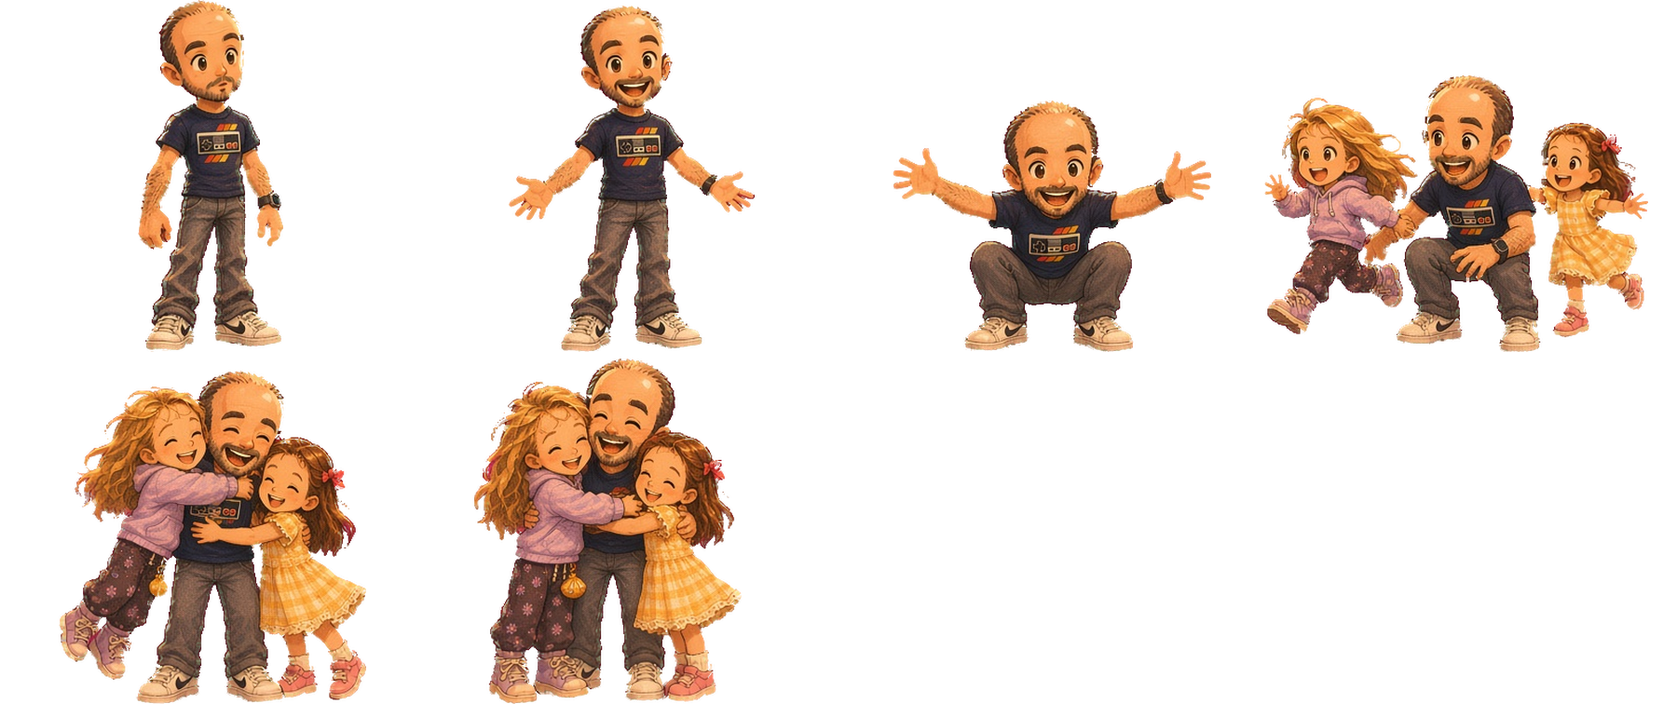
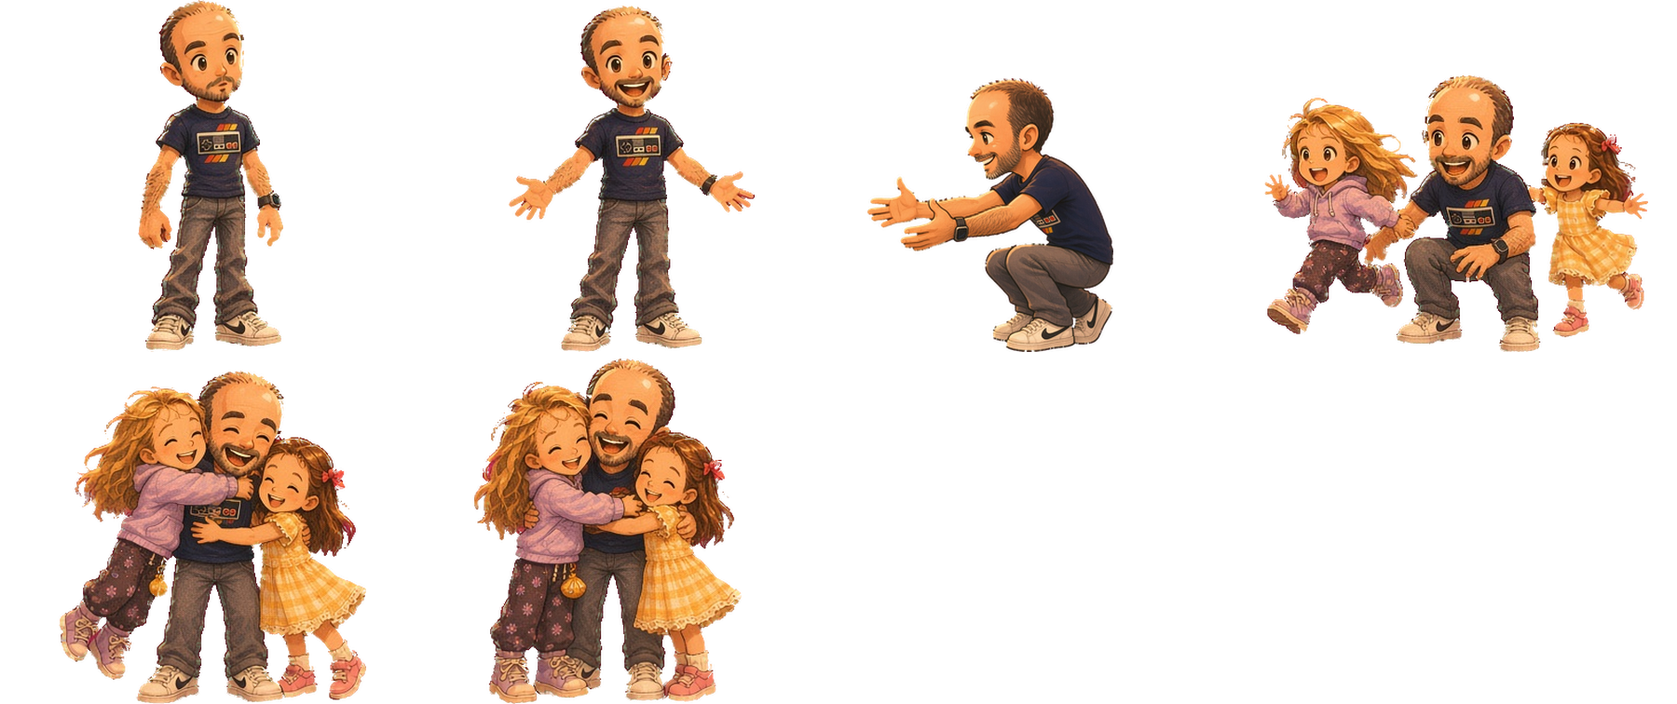
Tom's side crouch before the greeting hug (tomcrouch1)
Claude-Session: https://claude.ai/code/session_01RXeukCqWwVhZYPyHbC2NpQ

Changed region(s): [[0.4978, 0.0913, 0.7467, 0.5172]]

diff --git a/data/story-poses.js b/data/story-poses.js
@@ -30,13 +30,13 @@ const STORY_POSES_SRC={
     tr_hopoff:['..............................','..................u...........','................sDppyp........','...............psyHzphs.......','...........uz.hsKKHDpec.KHp...','...........zM..mKKAJsejpKL....','............HLwhuKrGyjhwKp....','.............FMjuIAKFmgLy.....','..............DDDrsKjuKBhj....','...............pCwsmpKyjce....','...............azyhsBDplc.....','.................szLIwpe......','...................FFFz.......','..................JszzDFL.....','................uzJKDFKKLz....','................DKwHFKxxKIL...','..........ppp..hwKmtMtmprKNJ..','.........HKMLzg.mMEhmeKKhvv...','........DIzCIIr..CJmjmzKuhh...','.......hyHwpDzjc.vysjmjIK.....','........uImAImca.GyA...wNN....','........yIrCFjg.CMC.....JM....','.......zBDBIzpy.........uAu...','.......hmAuyuww....Hy...xEy...','...w....uHzjpj..G.CBy...AHG...','..zw....gmgjDzfkC.HDz...vEJ...','..zDHzH...ewIAiixLDKy.........','..CKFK...bcBDiifrKHz..........','...IKD..ffbliildbwIg..........','...wIs.ifffbittdbehc..........','...mFHkkdbrtAngiaggwK.........','...sDFzrbaekujjlaeBIIu........','...pBIzwc..errmfbasBD.........','....wBwj....jhdbbacms.........','.....p.......bbddbaeg.........','.............bbddcbdf.........','............gdabbbdktl........','..........xxxnfdbitAxn........','.........GJAxokkioEEvo........','.......xJGxtqkfbiAGEvk........','......EMAvqnlfb.qJGAtd........','......AGvnidb...AJJvi.........','......ltolf.....xCEqi.........','.......kolf.....kqonk.........','.......kkqtk.....klltt........','.......nqloo.....ikklq........','.......fqqok......illl........','........itoif.....doqng.......','........kkknoi....nlintk......','........gqnii.....innokf......','........tEEqka.....lxExg......','.......tEJtxn......vJEE.......','......NNJNkoEt.....ENNMx......','.....xNNNMEEEo....xNNNNE......','......gEEx.........qqxJq......'],
     tr_sit:['..............................','.................s............','...............wHpjzy.........','.............spswzypm.........','.............hwKKHyhhp........','..............zKHzDhec........','..............mKytIhhh........','.............mjIDCIyjjz.......','............BhuKKKzjaesw......','............pheyCzegnhs.......','............erFjcspMKuhh......','............uAzpzFzypAc.......','...........JuzJHFzzIpy........','...........upyupFKKum.........','..........DIKIDjeuss..........','.........CKFKKIpccsK..........','.........DIDzzBgcpFFI.........','.........jBwhuDgeuIFLL........','..........mIjAFmsAJMFFw.......','..........zFDIDysypvJIF.......','.........AywyywhyLIhnIM.......','.........mhvHmjjCKwhjGAx......','.........BsjrgssDLphjj........','.........IycasFpJNrc..........','........JLmacwrkNNqfi.........','........MNkadbdrzCifi.........','.......CyxdkonrzHKybfd........','......HKDwekuwgzKKDgiu........','......HHypecjvhuyBIrjLC.......','......pxuwgguurGymwegHz.......','......uJHCicshtNJAacyII.......','......xEEv.bfdbcfda.wBB.......','.......h...ddfdaaac..mm.......','...........dddbbdgf...........','...........dffddfdda..........','..........qvqqqootti..........','..........AEoikntxvk..........','.........tGAqfaitxxo..........','.........CGvof.fqxEx..........','........tEAtk...lxCAl.........','........xAvob...fxCAl.........','.......xJxnf.....oEGv.........','.......qAtof.....kxGxi........','.......dookb.....dlooq........','........llnf......ilnvn.......','........qqtk......iootl.......','........vtof.......fottn......','.......iklnb.......bqkkl......','........nlln.......knlql......','.......fvokf........ioxtc.....','.......xJxkf........fxMJk.....','......xJEExf........axEEx.....','.....NNJJftx.........xMJN.....','....ENNNMEEx........kJNNNJ....','....iqEJxk...........xEtqx....']
   }},
-  hug:{member:"tom",atlas:{"src": "art/chars/hug-story.webp", "k": 9, "rects": {"hg_hear": [0, 0, 450, 378], "hg_delight": [450, 0, 450, 378], "hg_crouch": [900, 0, 450, 378], "hg_run": [1350, 0, 450, 378], "hg_crash": [0, 378, 450, 378], "hg_group": [450, 378, 450, 378]}},pal:{"a": "#262125", "b": "#332c32", "c": "#492c22", "d": "#433430", "e": "#583424", "f": "#4d3a32", "g": "#5e3c2f", "h": "#5e4336", "i": "#72402d", "j": "#62493b", "k": "#81472a", "l": "#674e3f", "m": "#71503f", "n": "#994b27", "o": "#795a47", "p": "#8b5e46", "q": "#9f5f3b", "r": "#ae612e", "s": "#ba642d", "t": "#bd6e38", "u": "#a36d54", "v": "#b7764f", "w": "#d4773d", "x": "#bd7d5d", "y": "#d88246", "z": "#c08864", "A": "#e48c45", "B": "#d68b62", "C": "#ee8e4a", "D": "#e99a57", "E": "#f5994d", "F": "#d79a6f", "G": "#f79c57", "H": "#faa25b", "I": "#eea961", "J": "#fda95d", "K": "#fab25f", "L": "#e9b175", "M": "#f6ba6e", "N": "#fac682"},frames:{
-    hg_hear:['.......................yGJ........................','.....................qtDJKM.......................','....................itGJJMNN......................','...................enEHJJJHI......................','...................ctEGDDJyrv.....................','...................cqCqkyJCyD.....................','...................cgwwtyJDoF.....................','....................irCppJGvM.....................','...................tsnEDyGAJK.....................','....................wtwGHwryA.....................','......................iwwyyy......................','.......................iiqq.......................','.......................ksrr.......................','.....................cabgpmd......................','....................gdbbbacmjd....................','....................bbbflotyob....................','...................dbbaloppjlbd...................','...................iibaffloplad...................','...................EEgabhntlftH...................','...................JC.abfimfgwJ...................','..................yE..cbbbbfdAHD..................','.................tyC..dbbdddd.CD..................','.................wAw..dbbbddd.wH..................','.................tA...dddbbdf..ph.................','.................tA...hmoomoo..kp.................','.................yGG..joojfjp..JJ.................','.................EHH..ooocbjp..DHM................','.................GGt.houmcdmu..AGH................','.................wCt.hpuj.dop...E.................','..................w..puoh.fou.....................','....................iopo..gmp.....................','....................fmoh..jlj.....................','....................pphf..dmp.....................','...................mumjh..hju.....................','...................cfpp...hmop....................','...................mohlj..mjff....................','..................elmmfc..fhmp....................','..................copol...fjpuu...................','..................mFFzl...gpuFLL..................','..................LNLzm...zugFLNN.................','..................NNNLz...zxxFLLN.................','..................FLLL............................'],
-    hg_delight:['..................................................','......................rAIKA.......................','.....................nAJKNNI......................','....................iAJKKMMML.....................','...................anEAyJJvqB.....................','...................cqwnrEJCAD.....................','...................ckwywEKyuB.....................','....................ewvfIKvpIs....................','...................wnrGtHCCGGt....................','....................tsEyttqqD.....................','.....................nrqgqktq.....................','......................ektwyv......................','.......................enqr.......................','......................ackrqd......................','.....................bbbabdfff....................','....................ddbdffntmd....................','...................bdbalouuoobd...................','...................kdaajfloimaf...................','..................JJqaafjpuohcyK..................','.................DHH..abinrfb.AJJ.................','................AGHC..abbbbdd..AHH................','............GJ.AHEy...abbbdbd...yApqMH............','.............GHGA.....bbbbddd....eiJHG............','............EHGG......bbbbbbd......HJEyy..........','...........EyCH.......gjljjjo.......Cyy...........','.............CG......floomlmom....................','.....................hmpodcjuo....................','.....................houmcdjup....................','.....................jppj.fmup....................','.....................mpof.foup....................','....................pppm..fmuu....................','....................fjoj..gmlj....................','....................oohf..dhpm....................','...................mpjlj..hlpu....................','...................djpm...fmou....................','...................ojho...hlhh....................','..................gmmfd...fflpm...................','..................fopmf...fjouu...................','..................uzzuf...fmzFL...................','..................LFFo....xufFLNN.................','.................FNNLzz...zzuFLLNL................','.................FLLL.........F...................'],
-    hg_crouch:['..................................................','..................................................','..................................................','..................................................','..................................................','..................................................','..................................................','..................................................','..................................................','..................................................','..................................................','..................................................','........................CMM.......................','......................qyGMMJt.....................','.....................nyHJJKNMq....................','....................etGHJKKKKDi...................','....................eyEJJJJKJJk...................','....................gywqyJJvnAq...................','..........G.........ctsrtGGwyDq.........J.........','........G.H.........gqCqvHJuuDr.........G.G.......','.......EEHHH........skDoqJJquDw........HGGG.......','.......GEGEGH.......srEEEECGHCw........GEEEG......','........GGGCHEGK.....ntwqqqktw......KtiEHHE.......','............yEGHGKkddaerikqkqcdfgDHHEAekE.C.......','.............tAGHJvbdbaewwwycbdbmHGECwk...........','...............wwArbbbbacnkcbbbakAwwt.............','..................caaabaaaabfbaac.................','....................aabfdfnsma....................','.....................afmlppjlb....................','.................upobaddbojiga.puu................','................pppomaafinkdadoopup...............','................moojmjaaccbadlhlopm...............','................hjmmfjfaaaabhffmmmj...............','................fljmjfhdbdcfhflllm................','.................jmjjfffdffhffhjoh................','.................hmmhddfffffddjmog................','.................hfjlh......chhfjj................','.................cmjhf......dfhoh.................','.................uzzuj......couzz.................','................NLLLmu......uhuLLN................','...............FNNLLuF......xuzLNNL...............','................FLLF..........zzFLL...............'],
-    hg_run:['..................................................','..................................................','..................................................','..................................................','..................................................','..................................................','..................................................','..................................................','..................................................','.......................DMDy.......................','.....................qIJHDAtt.....................','.....................FMJJNNyqk....................','........D............KGJJKKJqi....................','.....ttAAAEK........yyHJDDJJqi....................','.....wsnAKKEA.......nrEHrkwGqi....................','....twEEyyAAAw......ytCHCyyCie.....rnnnsr.........','....nEHHCwrAEAw.....rjDJquDCkt.....wCyrnnn........','....ryHGvDrksAA.....JAGJrzJAsw....kHKJGnknn.......','....kpDApDtkswwAA...DysyyyHyA.....kyJBDreee.......','....nCGHDJAsktAAw....kiqgnyic.....qvJpBreke.......','....nGtsCGqkekrsst...krswtkcbf....HEDyGwnink......','..G.nrwwAvuupinrs...fbirtnnbbbfd..rtrCGtnckk......','.CED.uupuzFFuiknnt.gbbaaeibbbbdbvHwwwAnekkek......','..wxFFxuxzFLFvzq..ebaabaaaffabdbpCEArtyKHtkkt.....','..pzFxzFFLzFFLLF..wdaadfhntpaabbb.wEEKKEwEHAEE....','...xupuFzFzpuFFFFyCwc.dfmofhbamtk..AJKKwsw..E.....','......zFFFFu..uuBAwt..ddhoiibaCJJ...GKKEr.........','......xFFFzFu.trtCt....benibaeyHG...AEKEAE........','......pppxxxutwsr..pohbaaaaadvGAA...CAEHEKKKM.....','......emggmopww...pupojfmqvyjlywt..AEAEKKHHKK.....','......immiic.ww...ppomlryGHJtcki...DJKAHKKKKM.....','.....ppmmgfekr....oomfhirtCAifmm...AKMKAEMKM......','.....mmmggffiiuFx.jjlfdjkqqgfopo...ABIMKEKIy......','....imimc.chhgpxp.hlhjfbgg.chlopl..yrsryIDwyFL....','....ppjm...mcgpuu..jlhf.....fjloj....AA....tyB....','...zzzuc.......ux..hjlhg....dhooj....JH.....yD....','.zLFxzu............dhhhf.....hhlo....BL.....yD....','.kuFFz.............upojd.....fjml....yy...........','..ikzz............LFFuop.....jvzz...DBC...........','....k............LNLNuuF......LLL..BHBL...........','.................FLLFzz......FNNNL................','.............................zFLN.................'],
-    hg_crash:['..................................................','..................................................','...........................wA.....................','.........................kqwAHMM..................','...................G....ekwEJJHMy.................','................DCwstwD.etEGJJJNN.................','...............AEAtswywtkwCEHJJJMN................','..............AwwwwHHHEsktynqDJDKK................','..............rrrrAEDJHAitCyAGHrq.................','..............sstsAEJJHtkwCryJAAy.................','.............AtsrkADvHGErwEEEEAttksn..............','...........AywnsrnwCCHDDqkqgqryEikknnn............','............rnrrkswEGwtygctnkiqrrAyrnwr...........','............ttskiuuvByApackystnkCHJGrkie..........','..........CAsrnnxzzLFzxuuupmqncqEHHDyinns.........','..........wsrnnkuuFLLLLLLLFzvwcryHDDAiiks.........','..........rrrnkimxFFFFFFFFFxDCiEEJyyycee..........','...........srnniizzuuzzzzxpgiicytyEHwnkk..........','...........trnnkuFuuuofhhmeedaaiwyCtsnen..........','...........s...uxFFFuoacgpkkfaiesEDrcceks.........','...............FFFzzzoaitygcdcntyDKJkcekkn........','..............zzzzFFFjasGJGDDDGKEwEEseekki........','..............jpzFzzFhagtqpwACEwsswAseeii.........','..............gegoxxobabaaaaac.swwyKwciii.........','.............gmogcgmgaabbbbbaa.wACJKJ.............','.............gjpgfee.cffdddfff.swAEEEMK...........','............kmligce..hmmljhlml.wAEEKKEMN..........','..........tigjimceAE.opohcdlopgwAKKEKKMEMN........','..........ijmuipfewEhppoj.dmppjtwEKKMKEMKKN.......','..........cihhgccc..hppoj.foppmtAAKKEMKKKKD.......','.........xocgecghc..hppoh..lppmwAAJMKMMEKMw.......','........Bxumeccmmc..jpoo...jopmwAAEKKEMIIy........','.......Fxxvu.gcce...lmom...hmomwEEAKMMytB.........','.......zzxuqpupe....lmoj...hlomkIDyyyywC..........','.......zFzupuuu....imomj...hlooe..sw..yJJ.........','........LNxuuvu....mjmmf...hmjmm..wCy..DNN........','........FB.vxzz....gljmh...jhlog...IL...LLB.......','............FNL....uumjf...fhouo..rBL...wwGL......','.............LF...FFFzmg...cpzFF..vwy...xBG.......','.................NLFLluz...umzLLNBBBGB..BDL.......','.................NNNLuz....zuzLNNFBFL..yHL........','.................LLLF........xFLL.................'],
-    hg_group:['..................................................','......................twDMD.......................','.....................qIJHJJAr.....................','....................eBJHJJNNtk....................','.............wHKJE..pGCJJKMMDk....................','............stttwEEkqqqHJyDJGk....................','...........rCsnnrrAttHEGGtkDCi....................','...........wAAwCJEArsryHEHDCqe....................','..........swssAKCHHtrECHyqAHkg....................','..........srrtCAHJJyttsyGCCtns....................','..........ssssCGJJDtrimqkyAkkiknk.................','.........wttnkCytJGHrrrnqtknwtkrss................','........AsrtnnwCCDyDkktyteeAJJDnnki...............','........snsrerrAGwwtacnneanGHHGwiinn..............','........sswniuxxvtwgaaiibanAJHDyiiin..............','........wwskkxxFFumdaaabaeCEJvDyceek..............','.......wtsnkkpuFLLFofffieeAwDCEwnkk...............','.......tnnnnkmzzFFFFLFFuyttywEAwrekn..............','........rnnnknxzzFFFFFFFFGktEErncennn.............','........rnnkksxxpuzFFFzuqrtyAKEwnennk.............','.........rnnnrxzupppputyGGJJwDAAAeek..............','.........snnpxFzFxufaeirwttsrwwttiei..............','............zFFFFFzjaaaaaacwwwEAkei...............','............xzFFFFzlabbbaacwCKKKw.................','............uzFzxxpdffdfffcsCEEEJ.................','...........cghhmomifhhhhllgtAEKKKK................','...........ijmhghenhlhccmmkyHJEEKMK...............','...........ghpocerEtljccmmkwEJMKMJKM..............','...........moiicctAsll..lmqAEHKEKMMKKN............','..........eghigcmcegmh..jmtCEEMMMKEMML............','..........igppcdlcbjmh..hmwEKEMKEEKLD.............','..........igmmcgfmfhlh..fiwAEAEKMKMy..............','.........immggcgogdhmh..fpADIDILDwt...............','.........hmmficgphfhlh..ghjpnrssww................','.........cfmheegfefjjf..fhhff.ssGH................','.........ijmg.cljgdhjg..fhhjh..tCH................','.........uxxp.muxuolhf..chllg..vFN................','.........uvvu.puvuvuoe...oxxm..ryNL...............','.........uxBu.uuxzxppz...zFFF.nvyBB...............','........vxzFF.uvxFNBxz...LNNLvvBByD...............','.........BBLNFuvzILI.....FNNLqGGGFL...............','..........DIII............LL..ILN.................']
+  hug:{member:"tom",atlas:{"src": "art/chars/hug-story.webp", "k": 9, "rects": {"hg_hear": [0, 0, 450, 378], "hg_delight": [450, 0, 450, 378], "hg_crouch": [900, 0, 450, 378], "hg_run": [1350, 0, 450, 378], "hg_crash": [0, 378, 450, 378], "hg_group": [450, 378, 450, 378]}},pal:{"a": "#252126", "b": "#312b34", "c": "#3f2f2c", "d": "#543021", "e": "#4b3932", "f": "#5b3a2f", "g": "#564137", "h": "#604235", "i": "#70402c", "j": "#60483a", "k": "#80462a", "l": "#654d40", "m": "#704e3e", "n": "#984b27", "o": "#785a47", "p": "#8b5e46", "q": "#9f5e39", "r": "#b25f2a", "s": "#b76630", "t": "#a56c4e", "u": "#c07037", "v": "#ab775a", "w": "#d2763b", "x": "#d08042", "y": "#bf7a5c", "z": "#de8144", "A": "#c38765", "B": "#e28a44", "C": "#d48960", "D": "#ed8c48", "E": "#f3984a", "F": "#d4986e", "G": "#e7985c", "H": "#f49a57", "I": "#faa05a", "J": "#eca862", "K": "#fda85c", "L": "#f4b267", "M": "#f6ba6e", "N": "#fac683"},frames:{
+    hg_hear:['.......................xHK........................','.....................quEKLM.......................','....................iuHKKLNN......................','...................dnEKKKKIJ......................','...................dsEHGHKBqt.....................','...................dqDqkxKEzG.....................','...................cfwwuxKGoF.....................','....................isDppKHuM.....................','...................uunEGzIBKK.....................','....................wuwIIxrxB.....................','......................iwxxzx......................','.......................ikqq.......................','.......................ksrr.......................','.....................cabfqob......................','....................hebbbbdmjc....................','....................bbbglouxob....................','...................cbbaloppjlbc...................','...................iibaeeloqlae...................','...................EIiabhnsleuK...................','...................KD.abeimghzK...................','..................zH..cbbbbeczKG..................','.................uzD..cbbccec.EG..................','.................wBx..cbbbbcc.wK..................','.................uB...cceccee..pg.................','.................uB...hmoomoo..kp.................','.................zHH..joolglp..KK.................','.................EII..oooccjp..HIM................','.................IHu.gptmccmt..BHI................','.................wDu.jptj.eop...E.................','..................w..ptoh.eot.....................','....................mopo..fop.....................','....................emoh..jlj.....................','....................ppje..emp.....................','...................mtmlh..gjt.....................','...................cgpp...goop....................','...................mohlj..mjeg....................','..................dlmmec..egmp....................','..................copom...elpvv...................','..................mFFAl...hpvFMF..................','..................NNFvm...AtfFFNN.................','..................NNNFA...AAvFFMN.................','..................FMNF............................'],
+    hg_delight:['..................................................','......................sBJLB.......................','.....................qBKLNNJ......................','....................izKLLLMMJ.....................','...................aqEBxKKxqG.....................','...................cqwnsHKDBG.....................','...................ckwxxHKxtG.....................','....................dwtgJKupJs....................','...................wnsHuIEDHHu....................','....................usEzuuqqH.....................','.....................nqqfqkuq.....................','......................dkuwzt......................','.......................dnqs.......................','......................ackrqc......................','.....................cbbabcegf....................','....................ebbeegnumc....................','...................acbaloptoobe...................','...................kcaajeloimae...................','..................KKqaaejptogczM..................','.................HII..abinrgb.DKK.................','................BIID..abbbbbc..DII................','............HK.BIEz...abbbcbc...zBpqMI............','.............HIIB.....bbbbece....diKII............','............HIIH......bbbbbbc......IKHzz..........','...........HzDK.......gjljjlo.......Dzz...........','.............DH......eloomloom....................','.....................gmpoeclto....................','.....................jopmccjtp....................','.....................lppj.emtp....................','.....................mpog.eotp....................','....................pppm..emtt....................','....................eloj..fmll....................','....................ooje..ejpm....................','...................mpjmj..glpv....................','...................cjpm...gmot....................','...................olgo...hmhh....................','..................fmmge...eglpm...................','..................eopmf...ejotv...................','..................tFFve...emvFN...................','..................FFFp....vtfFNNN.................','.................FNNMAA...AAtFFNNN................','.................FFMM.........F...................'],
+    hg_crouch:['..................................................','..................................................','..................................................','..................................................','..................................................','..................................................','..................................................','..................................................','..................................................','....................x.............................','.................Gxxqqqq..........................','................GKIIqdfik.........................','................MLMKuffcf.........................','...............NMMKIqifccd........................','...............NCqDIqfhdcc........................','...............xwqBIxkwsc.........................','................HtJEzuwua.........................','................KEHHxszf..........................','................suqztkswi.........................','.................ABqknDxcgj.......................','.................xChdrzgbbee......................','....................eciebbbbe.....................','.......E..........peaaebbbbbbb....................','.......HK.......MLIdavxebbaabb....................','....KBIEEDGBBKKKIBBuCKIwbaaabbb...................','....BxDKHBzzHxxxxBGEEDBnaeaabbb...................','.....BBD...GIxhuBxwwwu.cmmbabbbb..................','........LDDDDwckrqnnn...kfaabbbb..................','........Ewwzwka..........aaaaabb..................','........ssu.........tAvtplebaabbb.................','..................tpvtpoptpojcabb.................','..................pgooljjmooolgca.................','..................legomlgellljlj..................','..................egcjllogcgggg...................','...................eeeljllcaee....................','....................gejoljgccgg...................','.....................eellllecclF..................','.....................vlejgjgcotF..................','....................FAvAFtjcovoA..................','..................FNFFFNvvpvvFF...................','...................vFNNNvvNFvFv...................','....................AFFFFAv.......................'],
+    hg_run:['..................................................','..................................................','..................................................','..................................................','..................................................','..................................................','..................................................','..................................................','..................................................','.......................GLGx.......................','.....................qJKKHBus.....................','.....................FMKKNNxqk....................','........E............KIKKLLKqi....................','.....uuBDDEM........xxIKGGKKqi....................','.....wrnBLLEB.......nsEIskxIqi....................','....uwEEBBDBBw......xuDKDxBEkf.....rnnnrr.........','....nEKIEwrBEBw.....sjGKptHDku.....wEzrnnn........','....rxIHtGrnsBB.....KBHKsAKBsw....kKLKHnknn.......','....kpGDpGukrwzEE...HzsxzzIxz.....kxKCGsddd.......','....nDHIEKDukuBBw....nitinxic.....qtKpGrdki.......','....nHusDHqkdkrrsu...kqrwtkdbe....IEGzIwnink......','..H.nrxwBttvpinrs...fbisunncbbec..surDHundkn......','.EEG.tvptAFFviknnu.fbbaadibbbbebyIxxwzninkdk......','..wyFFvvvAFNFvAq..fcaabaaaeeabebpDEBruxKIukku.....','..pAFvAFFFAFFNNF..xcaacehrupaabbb.wEHKKExHKBIE....','...vvpvFAFApvFFFFzDwd.cgmoehbamuk..BKLKwsw..E.....','......AFFFFt..vvCBwu..ccgoiibaDKK...IKKEr.........','......AFFFAFv.sruDu....bdnkbadzIH...BEKEBE........','......pppvAvtswur..pohcaaaaacuIDB...EDEKKKKKM.....','......dmffmopww...ptpojemtuxjmzwu..BEBEKKIKKL.....','......kmmmid.ww...ppoomsxIIKucki...EKKBILKLKM.....','.....ppmmfedks....oomghisuDBieom...BLMKDEMKM......','.....pmmhfeekitFy.jllgchkqqfgopo...BCJLLEKLx......','....mmmmd.chhhpvp.gljlecff.cjlopm..xrsrxJGwzGJ....','....ppjm...mdfptt..jljg.....gjloj....DB....uxC....','...AAAtd.......vy..jjlgf....cgool....KK.....xG....','.AMFyAt............egggf.....gglo....GM.....zG....','.ktFFA.............vpoje.....ejmm....zC...........','..ikCA............MFFvop.....hvAA...GCH...........','....k............NNMNvtF......FFN..CIGJ...........','.................FFJFAA......FNNNF................','.............................AFMN.................'],
+    hg_crash:['..................................................','..................................................','...........................uB.....................','.........................kqwDIMM..................','...................H....dkwHKKKMC.................','................GEwuuxE.duEIKKKNN.................','...............BEBuswzxukxDEIKKKMN................','..............BwwwwIKIHskuznqHKGKL................','..............rrrrDEEKKDiuDxDHIsq.................','..............rrusBHKKIunwDsxKDBx.................','.............EusrkBGuIHErwEEEEDuuksn..............','...........BzwnrrnwDDKGHqkqftrxEikknnn............','............rnrrkrwEIxuChcunkiqqrBzrnwr...........','............uuukittyGzBpadkxsunkDIKIrkid..........','..........DBsrnnvAAFFAyvttpmqndqEIIEzinnw.........','..........wrrnnkvtFFFNFFNNFAywcszIGHBiikw.........','..........rrrnnimvFFFFFFFFFAGDiEEKxxxddd..........','...........srnnimAAvvAAAAypgiicxuxEIwnkk..........','...........urnnktFvtpoeggmfdeaaiwzDusndn..........','...........s...tvFFFvoacfpkkeaidsEEqdddns.........','...............FFFAAAoaisxfccdnuxELKkddkkn........','..............AAAAFFFlasIKHGHHIKExHEsddkkk........','..............hpAFAAFgafsqpxBEEwurxBrddii.........','..............hffoyvpbabaaaaac.swwzKudiii.........','.............fmpfchmfaabbbbbaa.xBEKKK.............','.............hjpfedd.dgeecceee.rzBEEEMK...........','............kmmifcd..jomljjlmm.wBEELKEMN..........','..........uihmmmcdBE.opojcelopfwzKKEKKMEMN........','..........immthpfdwEhppoj.empphuwEKKMLEMLLN.......','..........dmhhfced..hppoj.eoppmuBELKEMKMLLG.......','.........voehdcfhc..hppoh..lppoxBBKMKMMELLw.......','........Fvtmdccmmd..jpoo...jopmxBBELLELJLx........','.......Fyvvt.fdcf...lmom...gmomxEEBLMMxuC.........','.......AAvtqptpf....lmoj...hmomkJGzBCzwD..........','.......AFAtptvt....imomj...gloof..sw..zKK.........','........MNytvvt....mjmmg...hmjmm..wDz..GNN........','........FF.vyAA....gllmh...jhmof...JM...JLC.......','............FNM....ttojf...ehovo..qGL...wzHM......','.............JF...FFFAmf...dpAFF..twz...yCG.......','.................NMFFlvA...vmAJNNCCzHC..CGJ.......','.................NNNMvA....AvAMNNFGGL..xIJ........','.................JJMF........yFMM.................'],
+    hg_group:['..................................................','......................sxGLG.......................','.....................qJKIKKBs.....................','....................dCKIKKNNuk....................','.............wIKKE..pHDKKLMMGk....................','............uuuuxEEkqqqKKxGKHk....................','...........rEsnnrrBusIEHIskEDi....................','...........zDBwDKEBrssxKHIGDqd....................','..........rwssDKEIIurEDKBqGIki....................','..........srruDBIKKzuuszIEDunr....................','..........rsrsDHKKGsrimpkzBkkiknk.................','.........wuunkEBuKHIssrnquknwukrur................','........DsrunrzDDHxGkkuzufdBKKEnnki...............','........snsrirrDIwwuacnndanHKIHxiinn..............','........rswnktAyyuxfaaiibaqBKIEziiir..............','........wzskkvAFFtmcaaabadEEKxGzdddk..............','.......wurnnkpvFNNFoeeeiddBxHDEwnkk...............','.......unnnnkmAAFFFFFFFtxuszwHBwrdkn..............','........rnnnknyAAFFFFFFFGIkuEEsnddnnn.............','........rnnkkrvvpvAFFFAtqruzBLHwndnnk.............','.........rnnnqyAtppppttzIIKKwGBzBddk..............','.........snnpvFAFvvfadiqxussrxwuuidk..............','............AFFFFFAlaaaaaacwwwEBkdi...............','............yAFFFFAlabbbaacwEKLKw.................','............tAFAyvpceeeeeedsEEEEK.................','...........dfhhmomiejgggllfuEEKLLK................','...........immhhhfngmjccmmkzIKKEKML...............','...........fhppddsEullcdmmkzEKMLMKKM..............','...........moiicduBslm..mmqDEKMEKMMKMN............','..........dfhifcmddfmh..jmuEEEMMMLELLM............','..........ifppdemcbjmg..hmwEKEMKEELMG.............','..........ifmmdfemeglh..emzBKDEMMMLx..............','.........immffcfofcgmg..epBGJGJLGxu...............','.........hmmfidfphfglh..fhjpnrssww................','.........demhfdffffjje..fjhge.suHK................','.........immf.cmhfehjf..fhhjh..uDI................','.........tyyp.mtytolhe..dgmmf..yFN................','.........tyvt.pvvtvvof...oyvm..qCNN...............','.........vyFt.pvyAyppA...AFFF.nuyCC...............','........tyAFF.tvyFNFyA...FNNFyyCCzG...............','.........CFLNJtyAJLJ.....FNNFqHHHGM...............','..........GJJJ............JN..JMN.................']
   }},
   tomemo:{member:"tom",atlas:{"src": "art/chars/tomemo-story.webp", "k": 8, "rects": {"em_happy": [0, 0, 192, 320], "em_loving": [192, 0, 192, 320], "em_sad": [384, 0, 192, 320], "em_angry": [576, 0, 192, 320], "em_scared": [768, 0, 192, 320], "em_surprised": [960, 0, 192, 320], "em_proud": [1152, 0, 192, 320], "em_unimpressed": [1344, 0, 192, 320]}},pal:{"a": "#211c22", "b": "#3c241e", "c": "#292730", "d": "#3b2c2c", "e": "#37323a", "f": "#4a342b", "g": "#503b32", "h": "#623b27", "i": "#544439", "j": "#634635", "k": "#7e4628", "l": "#654e3e", "m": "#695243", "n": "#865031", "o": "#6b5646", "p": "#725746", "q": "#83593d", "r": "#755b4a", "s": "#9d5930", "t": "#7c614e", "u": "#8a6348", "v": "#a06237", "w": "#8f6b51", "x": "#b06b3b", "y": "#967154", "z": "#c2703a", "A": "#9f7d5d", "B": "#bf804e", "C": "#d98246", "D": "#c19568", "E": "#dd9558", "F": "#ef934f", "G": "#ee9f5c", "H": "#faa15a", "I": "#e1ae79", "J": "#fcaa63", "K": "#fdb16a", "L": "#eeba80", "M": "#edc591", "N": "#f8d5a3"},frames:{
     em_happy:['........................','........................','........nvCGLB..........','.......nzCHJKLD.........','......hkFJKKLMNx........','......fvFJKKKKLI........','......fxFGGKKKGJh.......','......bvCnsCKCnx........','......vnCzzFJzzB........','.....xCsFEGHJFEEv.......','......zxFCBzzBGC........','.......kxsfrqhxx........','........hxxkknCh........','........bhBFCGk.........','.......fbkkkkhb.........','......gecdhkvBmg........','.....feeeeanHGEig.......','.....deecmizHGFnef......','.....dgjaljCHFCvfk......','.....kHEvxCFGvClfG......','.....xHEHGFzkbbfxHE.....','......FFFCshhfasCFz.....','......zCshaccccbsz......','.......baaceeeec........','.......acccceceb........','.......giigffgmm........','.......jttpliiry........','.......lwwrdbltyu.......','.......pwyt.bltyy.......','.......myAp..fmwAq......','......hpwwj..flrtl......','......lmlm...hlpmj......','......lorj...flrtj......','.....kmmpi...hllmg......','.....glmig...ggjwp......','.....rDAtf...fmDDIA.....','.....DIIA....wtrMIMN....','....INNND....DDyLMNNI...','....DLMND......AAIMM....','........................'],

diff --git a/index.html b/index.html
@@ -1383,12 +1383,12 @@ document.addEventListener('click',function(e){var n=e.target.closest&&e.target.c
 <script src="engine/tiles.js?v=tom4"></script>
 <script src="data/villagers.js"></script>
 <script src="data/recruit-rig.js"></script>
-<script src="engine/painted.js?v=tombo2"></script>
+<script src="engine/painted.js?v=tomcrouch1"></script>
 <script src="data/tombo-frames.js"></script>
 <script src="engine/tombo-frames.js"></script>
 <script src="data/tom-hires.js?v=tomface1"></script>
 <script src="data/tom-hires-use.js?v=ab1"></script>
-<script src="data/story-poses.js?v=tomemo2"></script>
+<script src="data/story-poses.js?v=tomcrouch1"></script>
 <script src="data/story-poses-use.js?v=emo7"></script>
 <script src="data/grace-hires.js?v=walkhead4"></script>
 <script src="data/grace-ab.js?v=gab1"></script>
@@ -1603,7 +1603,7 @@ document.addEventListener('click',function(e){var n=e.target.closest&&e.target.c
 <script src="data/emotion-moods.js?v=emo14"></script>
 <script src="engine/emotions.js?v=tomemo2"></script><!-- mood faces and poses in story dialogue (batch 0: chapter 1) -->
 <script src="engine/tapwalk.js?v=wind1"></script><!-- tap to walk -->
-<script src="engine/main.js?v=tombo3"></script>
+<script src="engine/main.js?v=tomcrouch1"></script>
 <script src="engine/music.js"></script>
 <script src="data/songs.js"></script>
 <script src="engine/music-clips.js?v=music1"></script>

diff --git a/engine/painted.js b/engine/painted.js
@@ -11,7 +11,7 @@
 // Atlas: one image of equally sized frames at K times the rows' resolution. Battle sheets are K = 3 (Boppy 4) since sharp1
 // (2026-11-05, Tom: the party looked blurry in battle; K = 2 was stretched up to 1.45x on a phone). See tools/sprite-bake/hires.py.
 // ART_V: cache tag for every painted atlas image (2026-11-01, heads1: all adult battle heads re-baked).
-const ART_V='tomemo2';
+const ART_V='tomcrouch1';
 const PAINTED={};
 // Cast ids that own painted sheets (paintedOwners, below). Longer prefixes first: tomride before tom.
 const PAINTED_CAST=['tomride','tom','grace','rose','tnb','amy','deedee','boppy','nara','justin','olivia','jojo','michael','ellie'];

diff --git a/engine/main.js b/engine/main.js
@@ -102,7 +102,7 @@ startSplash();
 (function(){
   const sp=document.getElementById('splash'); if(!sp) return;
   const d=document.createElement('div');
-  d.textContent='build tombo3';
+  d.textContent='build tomcrouch1';
   d.style.cssText='position:absolute;left:8px;bottom:4px;font:10px monospace;color:#fff;opacity:.45;pointer-events:none;z-index:50';
   sp.appendChild(d);
 })();

diff --git a/tools/sprite-bake/bake_story_poses.py b/tools/sprite-bake/bake_story_poses.py
@@ -43,7 +43,10 @@ SETS = {
     # 'feet' = x of Tom's own feet in each group frame's cut picture, in source pixels (measured by eye; checked with tools/shots/hug-feet.png), so he stays on one spot from frame 4 to 8.
     'hug': {'member': 'tom', 'sheet': 'tom-grace-rose-greeting-hug-v1.png', 'ground': (211, 24, 95), 'cut': (4, 2), 'k': 9, 'h': 42, 'ref': 'hg_hear',
             'names': ['hg_hear', 'hg_delight', 'hg_crouch', 'hg_run', 'hg_crash', 'hg_group'],
-            'feet': {'hg_run': 192, 'hg_crash': 143, 'hg_group': 146}},
+            'feet': {'hg_run': 192, 'hg_crash': 143, 'hg_group': 146},
+            # Side crouch (2026-11-07, Tom: the crouch before the hug faces the girls, arms open): the approved painting `tom-greeting-crouch-v1.png` replaces cell 3.
+            # Its own sheet, so its size factor is set by head height: hair top to chin is about 334 px there and about 95 px in this sheet's standing Tom, so .284.
+            'crouch': {'sheet': 'tom-greeting-crouch-v1.png', 'ground': (219, 25, 95), 'scale': .284, 'name': 'hg_crouch'}},
 }
 
 # Emotion poses (emo7, 2026-11-06): the 8 full-body emotion frames of each character (art/emotions/<id>.webp strips, cut by emotion_frames.py), drawn on the
@@ -219,6 +222,9 @@ for cid, S in SETS.items():
         if not S['k']: S['k'] = max(5, min(10, int(figs[S['ref']].height / S['h'])))
     elif 'ground' in S: figs = dict(zip(S['names'], cut_cells(key_ground(os.path.join(RAW, S['sheet']), S['ground']), S['cut'][0], S['cut'][1], S['cut'][0] * S['cut'][1])))
     elif 'cut' in S: figs = dict(zip(S['names'], _cut(os.path.join(RAW, S['sheet']), S['cut'][0], S['cut'][1], [n[3:] for n in S['names']] + ['x%d' % i for i in range(S['cut'][0] * S['cut'][1] - len(S['names']))]).values()))
+    if S.get('crouch'):
+        C = S['crouch']; one = cut_cells(key_ground(os.path.join(RAW, C['sheet']), C['ground']), 1, 1, 1)[0]
+        figs[C['name']] = one.resize((round(one.width * C['scale']), round(one.height * C['scale'])), Image.LANCZOS)
     if 'strip' not in S and 'cut' not in S and 'ground' not in S: figs = dict(zip(S['names'], grid(os.path.join(RAW, S['sheet']), 4, 2)))
     f = S['h'] * S['k'] / figs[S['ref']].height
     if 'strip' in S:

diff --git a/docs/CHANGES.md b/docs/CHANGES.md
@@ -1,3 +1,9 @@
+## 2026-11-07 (436): Tom's side crouch before the greeting hug (`tomcrouch1`)
+- Fact: Tom's approved Art Library picture `tom-greeting-crouch` (`art/raw/characters/tom-greeting-crouch-v1.png`) now is the `hg_crouch` frame of the greeting hug. He crouches facing the girls with his arms open, then the group picture (`hg_run`) takes over. Used as painted, no flip.
+- Build: `bake_story_poses.py` hug set has a `crouch` entry (own sheet, keyed on its crimson ground, scaled by head height .284 so his head matches the standing frame; feet on the bottom row). Rebuilt `art/chars/hug-story.webp` and `data/story-poses.js`; tags moved to `tomcrouch1`. Nothing else changed.
+- Tests: in-game capture of hear, delight, crouch, run in portrait (head sizes match, feet on the same row), smoke FAILS [], tag_check ok, unused_voice 0. Not checked in landscape or on the phone.
+- Watch on the phone: Tom's feet shift a little sideways between the crouch and the group picture; the crouch figure is wider than the standing one.
+
 ## 2026-11-07 (435): Painted Tombo frames, Sit. Paw. Treat. (`tombo3`)
 - Installed: nara1 plays Tom's and Nara's painted frames from the approved Art Library sheets (`art/tombo/nara1-tom.webp`, `nara1-p.webp`, `data/tombo-frames.js`). Nara's frames are mirrored with the new `tbfm` helper in `engine/tombo-frames.js` (the sheet faces left). Treat and paw cutouts are the approved `tombo/dog_treat` and `tombo/giant_paw` (same slugs as before, so Nara's other treat moves also show the new bone).
 - Tags: ART_V unchanged (new atlases), prop V and battle2-kind moved to `tombo3`, main.js to `tombo3`.
